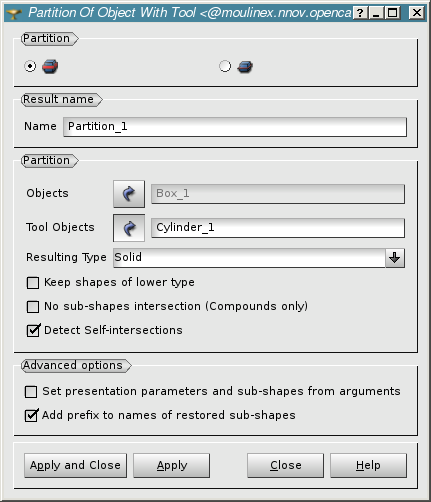
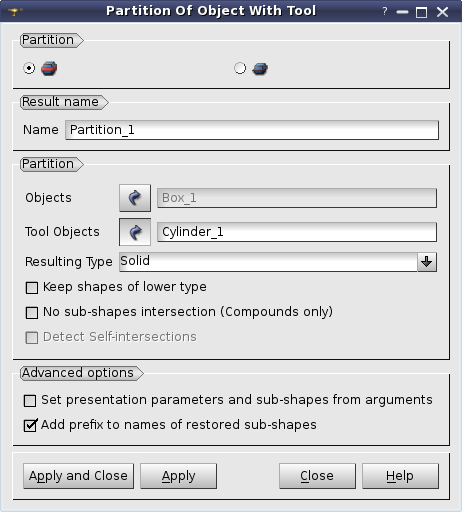
0022490: [CEA 1057] Default tick of "Detect self-intersections" in Partition

Changed region(s): [[0.0, 0.0, 1.0, 1.0]]

diff --git a/src/GEOM_SWIG/geomBuilder.py b/src/GEOM_SWIG/geomBuilder.py
@@ -7115,16 +7115,6 @@ class geomBuilder(object, GEOM._objref_GEOM_Gen):
         #                             target type (equal to Limit) are kept in the result,
         #                             else standalone shapes of lower dimension
         #                             are kept also (if they exist).
-        #  @param checkSelfInte The flag that tells if the arguments should
-        #         be checked for self-intersection prior to the operation.
-        #
-        #  @note This algorithm doesn't find all types of self-intersections.
-        #        It is tuned to detect vertex/vertex, vertex/edge, edge/edge,
-        #        vertex/face and edge/face intersections. Face/face
-        #        intersections detection is switched off as it is a
-        #        time-consuming operation that gives an impact on performance.
-        #        To find all self-intersections please use
-        #        CheckSelfIntersections() method.
         #
         #  @param theName Object name; when specified, this parameter is used
         #         for result publication in the study. Otherwise, if automatic
@@ -7149,7 +7139,7 @@ class geomBuilder(object, GEOM._objref_GEOM_Gen):
         #  @ref tui_partition "Example"
         def MakePartition(self, ListShapes, ListTools=[], ListKeepInside=[], ListRemoveInside=[],
                           Limit=ShapeType["AUTO"], RemoveWebs=0, ListMaterials=[],
-                          KeepNonlimitShapes=0, checkSelfInte=False, theName=None):
+                          KeepNonlimitShapes=0, theName=None):
             """
             Perform partition operation.
 
@@ -7163,18 +7153,6 @@ class geomBuilder(object, GEOM._objref_GEOM_Gen):
                                     target type (equal to Limit) are kept in the result,
                                     else standalone shapes of lower dimension
                                     are kept also (if they exist).
-                checkSelfInte The flag that tells if the arguments should
-                              be checked for self-intersection prior to
-                              the operation.
-
-            Note:
-                    This algorithm doesn't find all types of self-intersections.
-                    It is tuned to detect vertex/vertex, vertex/edge, edge/edge,
-                    vertex/face and edge/face intersections. Face/face
-                    intersections detection is switched off as it is a
-                    time-consuming operation that gives an impact on performance.
-                    To find all self-intersections please use
-                    CheckSelfIntersections() method.
 
                 theName Object name; when specified, this parameter is used
                         for result publication in the study. Otherwise, if automatic
@@ -7209,7 +7187,7 @@ class geomBuilder(object, GEOM._objref_GEOM_Gen):
             anObj = self.BoolOp.MakePartition(ListShapes, ListTools,
                                               ListKeepInside, ListRemoveInside,
                                               Limit, RemoveWebs, ListMaterials,
-                                              KeepNonlimitShapes, checkSelfInte);
+                                              KeepNonlimitShapes);
             RaiseIfFailed("MakePartition", self.BoolOp)
             self._autoPublish(anObj, theName, "partition")
             return anObj
@@ -7219,7 +7197,18 @@ class geomBuilder(object, GEOM._objref_GEOM_Gen):
         #  compound contains nonintersected shapes. Performance will be better
         #  since intersection between shapes from compound is not performed.
         #
-        #  Description of all parameters as in previous method MakePartition()
+        #  Description of all parameters as in previous method MakePartition().
+        #  One additional parameter is provided:
+        #  @param checkSelfInte The flag that tells if the arguments should
+        #         be checked for self-intersection prior to the operation.
+        #
+        #  @note This algorithm doesn't find all types of self-intersections.
+        #        It is tuned to detect vertex/vertex, vertex/edge, edge/edge,
+        #        vertex/face and edge/face intersections. Face/face
+        #        intersections detection is switched off as it is a
+        #        time-consuming operation that gives an impact on performance.
+        #        To find all self-intersections please use
+        #        CheckSelfIntersections() method.
         #
         #  @note Passed compounds (via ListShapes or via ListTools)
         #           have to consist of nonintersecting shapes.
@@ -7239,7 +7228,20 @@ class geomBuilder(object, GEOM._objref_GEOM_Gen):
             since intersection between shapes from compound is not performed.
 
             Parameters: 
-                Description of all parameters as in method geompy.MakePartition
+                Description of all parameters as in method geompy.MakePartition.
+                One additional parameter is provided:
+                checkSelfInte The flag that tells if the arguments should
+                              be checked for self-intersection prior to
+                              the operation.
+
+            Note:
+                    This algorithm doesn't find all types of self-intersections.
+                    It is tuned to detect vertex/vertex, vertex/edge, edge/edge,
+                    vertex/face and edge/face intersections. Face/face
+                    intersections detection is switched off as it is a
+                    time-consuming operation that gives an impact on performance.
+                    To find all self-intersections please use
+                    CheckSelfIntersections() method.
         
             NOTE:
                 Passed compounds (via ListShapes or via ListTools)
@@ -7268,7 +7270,7 @@ class geomBuilder(object, GEOM._objref_GEOM_Gen):
         #  \n @ref swig_Partition "Example 2"
         def Partition(self, ListShapes, ListTools=[], ListKeepInside=[], ListRemoveInside=[],
                       Limit=ShapeType["AUTO"], RemoveWebs=0, ListMaterials=[],
-                      KeepNonlimitShapes=0, checkSelfInte=False, theName=None):
+                      KeepNonlimitShapes=0, theName=None):
             """
             See method geompy.MakePartition for more information.
             """
@@ -7277,58 +7279,35 @@ class geomBuilder(object, GEOM._objref_GEOM_Gen):
             anObj = self.MakePartition(ListShapes, ListTools,
                                        ListKeepInside, ListRemoveInside,
                                        Limit, RemoveWebs, ListMaterials,
-                                       KeepNonlimitShapes, checkSelfInte,
-                                       theName);
+                                       KeepNonlimitShapes, theName);
             return anObj
 
         ## Perform partition of the Shape with the Plane
         #  @param theShape Shape to be intersected.
         #  @param thePlane Tool shape, to intersect theShape.
-        #  @param checkSelfInte The flag that tells if the arguments should
-        #         be checked for self-intersection prior to the operation.
         #  @param theName Object name; when specified, this parameter is used
         #         for result publication in the study. Otherwise, if automatic
         #         publication is switched on, default value is used for result name.
         #
-        #  @note This algorithm doesn't find all types of self-intersections.
-        #        It is tuned to detect vertex/vertex, vertex/edge, edge/edge,
-        #        vertex/face and edge/face intersections. Face/face
-        #        intersections detection is switched off as it is a
-        #        time-consuming operation that gives an impact on performance.
-        #        To find all self-intersections please use
-        #        CheckSelfIntersections() method.
-        #
         #  @return New GEOM.GEOM_Object, containing the result shape.
         #
         #  @ref tui_partition "Example"
-        def MakeHalfPartition(self, theShape, thePlane, checkSelfInte=False, theName=None):
+        def MakeHalfPartition(self, theShape, thePlane, theName=None):
             """
             Perform partition of the Shape with the Plane
 
             Parameters: 
                 theShape Shape to be intersected.
                 thePlane Tool shape, to intersect theShape.
-                checkSelfInte The flag that tells if the arguments should
-                              be checked for self-intersection prior to
-                              the operation.
                 theName Object name; when specified, this parameter is used
                         for result publication in the study. Otherwise, if automatic
                         publication is switched on, default value is used for result name.
-
-            Note:
-                    This algorithm doesn't find all types of self-intersections.
-                    It is tuned to detect vertex/vertex, vertex/edge, edge/edge,
-                    vertex/face and edge/face intersections. Face/face
-                    intersections detection is switched off as it is a
-                    time-consuming operation that gives an impact on performance.
-                    To find all self-intersections please use
-                    CheckSelfIntersections() method.
 
             Returns:  
                 New GEOM.GEOM_Object, containing the result shape.
             """
             # Example: see GEOM_TestAll.py
-            anObj = self.BoolOp.MakeHalfPartition(theShape, thePlane, checkSelfInte)
+            anObj = self.BoolOp.MakeHalfPartition(theShape, thePlane)
             RaiseIfFailed("MakeHalfPartition", self.BoolOp)
             self._autoPublish(anObj, theName, "partition")
             return anObj

diff --git a/src/GEOM_I/GEOM_IBooleanOperations_i.cc b/src/GEOM_I/GEOM_IBooleanOperations_i.cc
@@ -200,8 +200,7 @@ GEOM::GEOM_Object_ptr GEOM_IBooleanOperations_i::MakePartition
                                        CORBA::Short            theLimit,
                                        CORBA::Boolean          theRemoveWebs,
                                        const GEOM::ListOfLong& theMaterials,
-                                       CORBA::Short theKeepNonlimitShapes,
-                                       CORBA::Boolean          IsCheckSelfInte)
+                                       CORBA::Short theKeepNonlimitShapes)
 {
   GEOM::GEOM_Object_var aGEOMObject;
 
@@ -235,7 +234,7 @@ GEOM::GEOM_Object_ptr GEOM_IBooleanOperations_i::MakePartition
                                    theLimit, theRemoveWebs, aMaterials,
                                    theKeepNonlimitShapes,
                                    /*PerformSelfIntersections*/Standard_True,
-                                   IsCheckSelfInte);
+                                   /*IsCheckSelfInte*/Standard_False);
   if (!GetOperations()->IsDone() || anObject.IsNull())
     return aGEOMObject._retn();
 
@@ -304,8 +303,7 @@ GEOM::GEOM_Object_ptr GEOM_IBooleanOperations_i::MakePartitionNonSelfIntersected
 //=============================================================================
 GEOM::GEOM_Object_ptr GEOM_IBooleanOperations_i::MakeHalfPartition
                                                  (GEOM::GEOM_Object_ptr theShape,
-                                                  GEOM::GEOM_Object_ptr thePlane,
-                                                  CORBA::Boolean        IsCheckSelfInte)
+                                                  GEOM::GEOM_Object_ptr thePlane)
 {
   GEOM::GEOM_Object_var aGEOMObject;
 
@@ -320,7 +318,7 @@ GEOM::GEOM_Object_ptr GEOM_IBooleanOperations_i::MakeHalfPartition
 
   // Make Half Partition
   Handle(GEOM_Object) anObject =
-    GetOperations()->MakeHalfPartition(aSh, aPl, IsCheckSelfInte);
+    GetOperations()->MakeHalfPartition(aSh, aPl);
   if (!GetOperations()->IsDone() || anObject.IsNull())
     return aGEOMObject._retn();
 

diff --git a/src/GEOM_I_Superv/GEOM_Superv_i.cc b/src/GEOM_I_Superv/GEOM_Superv_i.cc
@@ -1528,7 +1528,7 @@ GEOM::GEOM_Object_ptr GEOM_Superv_i::MakePartition (GEOM::GEOM_List_ptr   theSha
       myBoolOp->MakePartition(aListImplS->GetList(), aListImplT->GetList(),
                               aListImplKI->GetList(), aListImplRI->GetList(),
                               theLimit, theRemoveWebs, aListImplM->GetList(),
-                              theKeepNonlimitShapes, false);
+                              theKeepNonlimitShapes);
     endService( " GEOM_Superv_i::MakePartition" );
     return anObj;
   }
@@ -1546,7 +1546,7 @@ GEOM::GEOM_Object_ptr GEOM_Superv_i::MakeHalfPartition (GEOM::GEOM_Object_ptr th
   MESSAGE("GEOM_Superv_i::MakeHalfPartition");
   getBoolOp();
   GEOM::GEOM_Object_ptr anObj =
-    myBoolOp->MakeHalfPartition(theShape, thePlane, false);
+    myBoolOp->MakeHalfPartition(theShape, thePlane);
   endService( " GEOM_Superv_i::MakeHalfPartition" );
   return anObj;
 }
